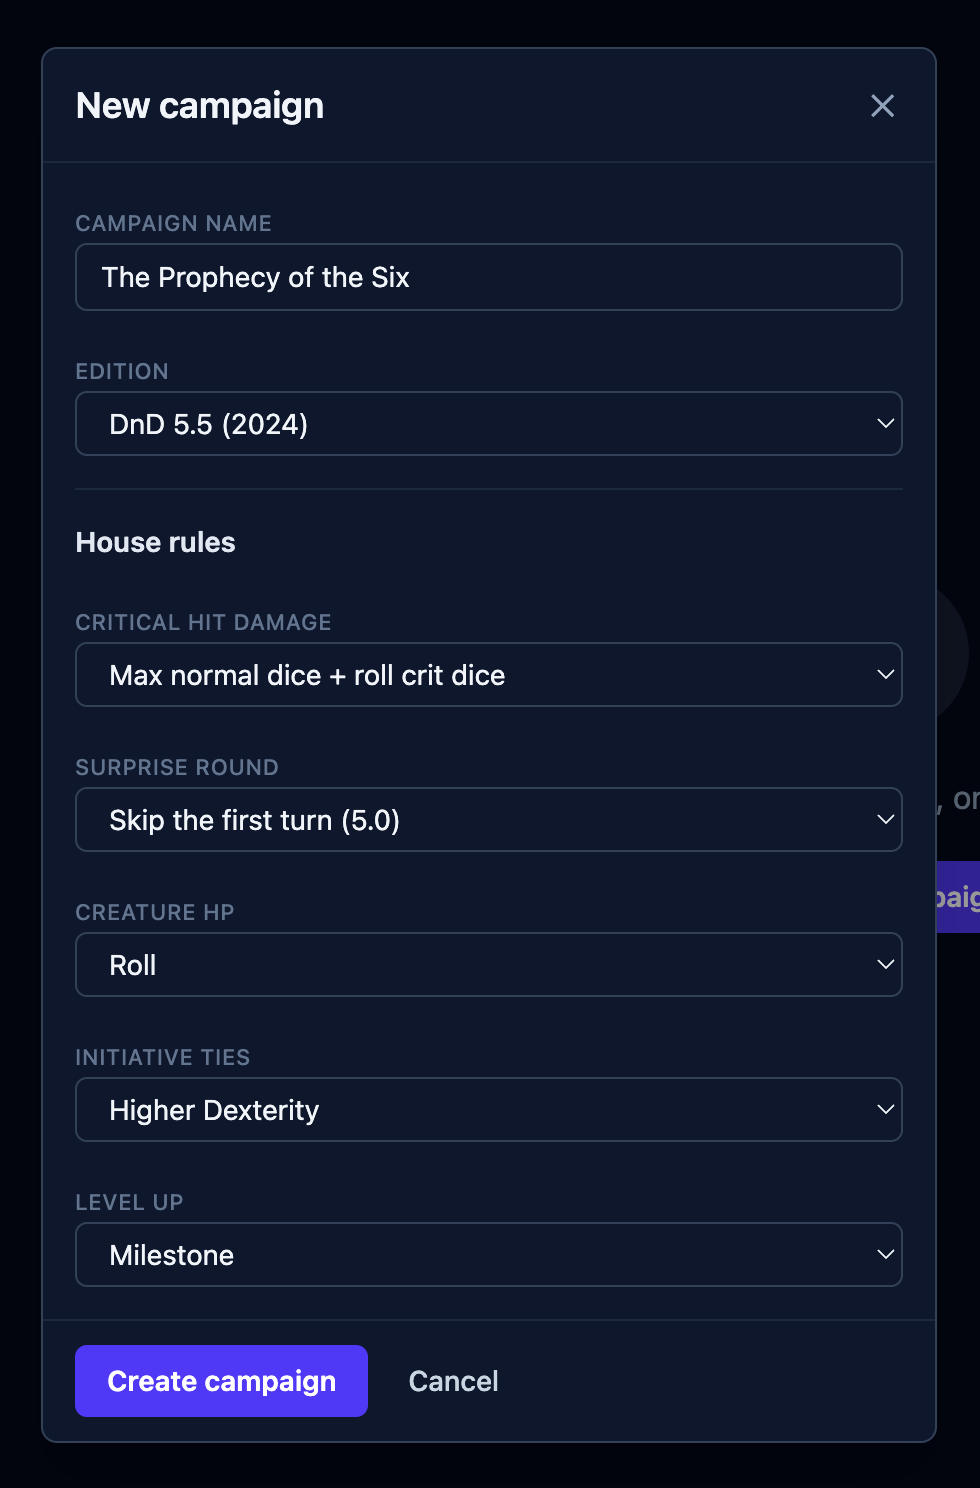
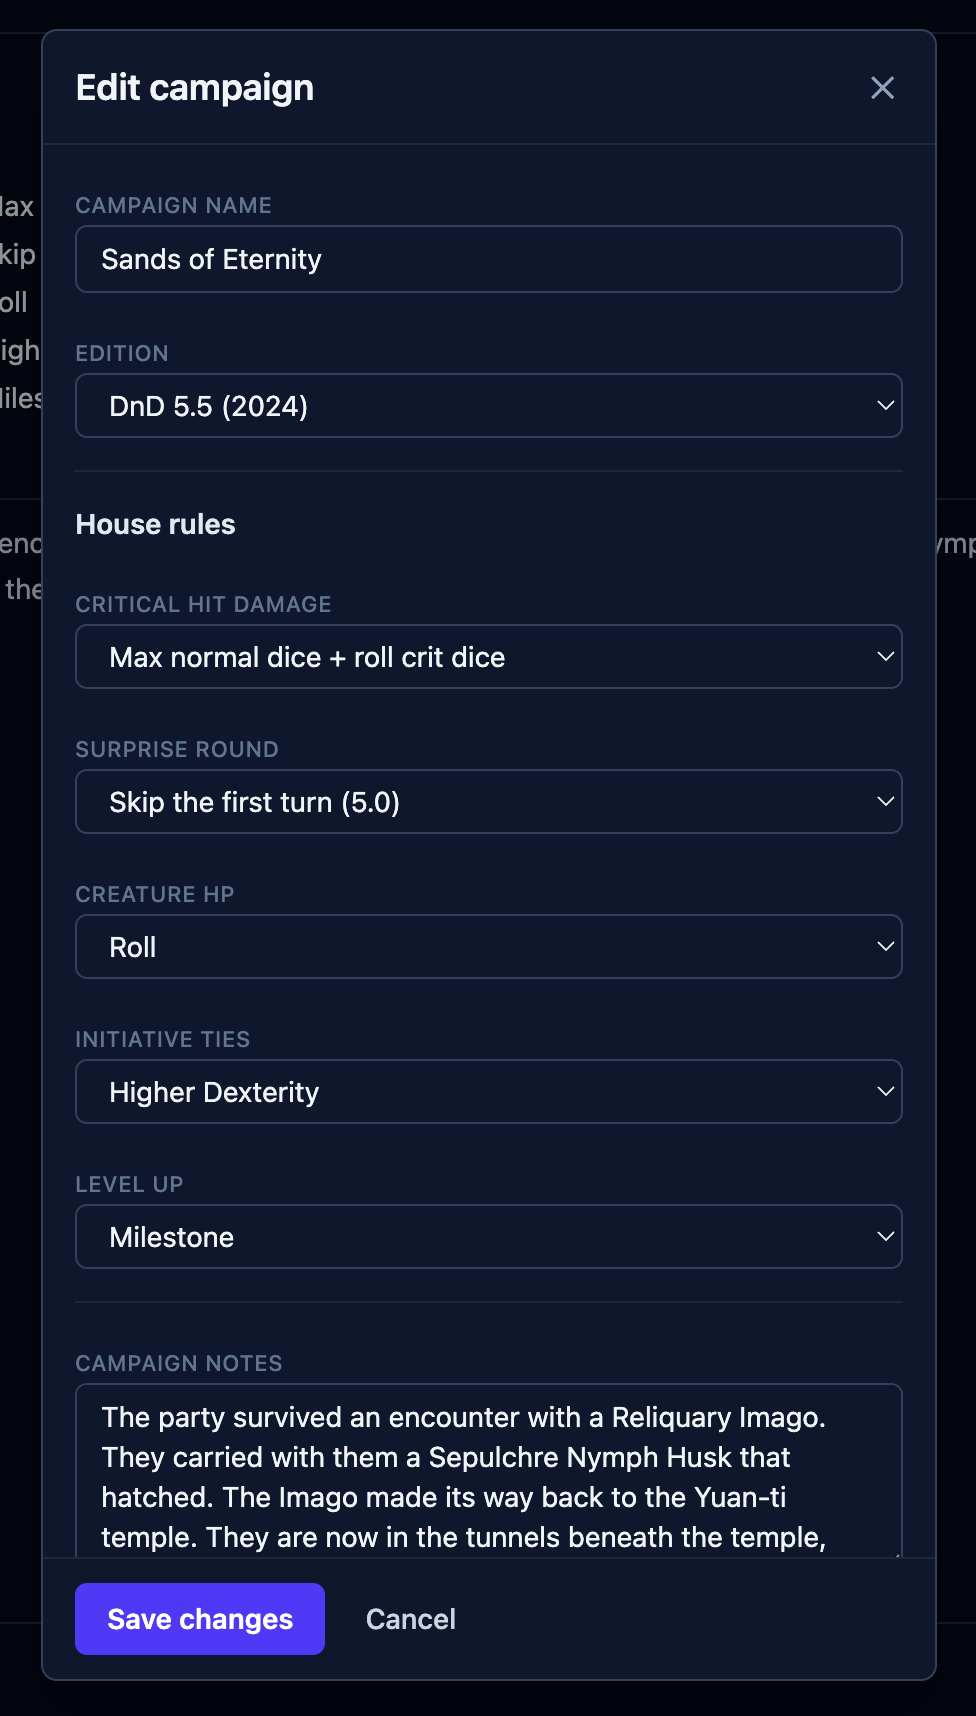
Docs: picture the campaign notes
The two captures on this page needed a signed-in account, so they came in by
hand. campaign-form is re-taken with the Campaign notes box at the foot, and a
new campaign-notes shows the card, where the notes can be written without
opening the form at all.

The card runs to the bottom of the window with nothing in it below the note, so
its entry crops to just past the text, the way characters-tab already does.

The form capture is of Edit campaign rather than New campaign. Both open the
same form, so the step and the alt text stop naming one of the two.

diff --git a/src/content/docs/guides/campaigns.md b/src/content/docs/guides/campaigns.md
@@ -29,14 +29,15 @@ Make and edit campaigns on the **Campaigns** tab of the
 
 1. Open the compendium with the **book** at the top of the screen, and pick the
    **Campaigns** tab.
-2. Create a new campaign. The **New campaign** box asks for a name, an edition, the five
-   house rules below, and any notes you want to keep on the game.
+2. Create a new campaign. The form asks for a name, an edition, the five house rules
+   below, and any notes you want to keep on the game. Editing a campaign later opens the
+   same form.
 3. Pick the edition: **DnD 5.5 (2024)** or **DnD 5.0 (2014)**. It labels your games so
    you can tell them apart, and it decides which
    [Exhaustion rules](/docs/concepts/effects/#exhaustion) apply.
 4. Set the house rules, and save.
 
-![The New campaign box, with a name, an edition, and the five house-rule dropdowns.](../../../assets/screens/campaign-form.png)
+![The campaign form, with the name, edition and five house-rule dropdowns above a Campaign notes box at the foot.](../../../assets/screens/campaign-form.png)
 
 Which creatures and spells you actually see is a separate choice, in
 [Settings](/docs/reference/settings/#libraries), so it covers you whether or not you're
@@ -75,6 +76,8 @@ There are two places to write them:
   you're creating or editing a campaign.
 - **On the campaign card**, without opening the form. Click the notes, type, and click
   away to save. There's no Save button. Press `Escape` to leave them as they were.
+
+![A campaign card for Sands of Eternity, its house rules listed above a Campaign notes section holding a few lines about the last session.](../../../assets/screens/campaign-notes.png)
 
 A campaign with none yet shows **Add campaign notes…** where they'd go. The notes take
 Markdown, so headings, lists, and bold text all come out formatted.

diff --git a/AGENTS.md b/AGENTS.md
@@ -48,12 +48,12 @@ fill an initiative for **every** combatant, creatures included, or the console r
 theirs and the board reorders between runs; and a shot framing live dice or the fight
 clock takes `check: false`, because it can never match itself.
 
-Thirteen captures still have no recipe, because they need something the pipeline
+Fourteen captures still have no recipe, because they need something the pipeline
 cannot stage anonymously. They stay by-hand until it can:
 
 - **A signed-in account**: `add-pc-dropdown-signedin`, `campaign-form`,
-  `campaign-picker`, `campaigns-tab`, `characters-tab`, `custom-creature`,
-  `custom-spell`, and `import-json`.
+  `campaign-notes`, `campaign-picker`, `campaigns-tab`, `characters-tab`,
+  `custom-creature`, `custom-spell`, and `import-json`.
 - **Motion**: `reorder-combatants` and `use-reaction` are GIFs, and shotlist takes
   stills.
 - **The browser extension**: `importer-browser-pin`, `importer-options`, and
